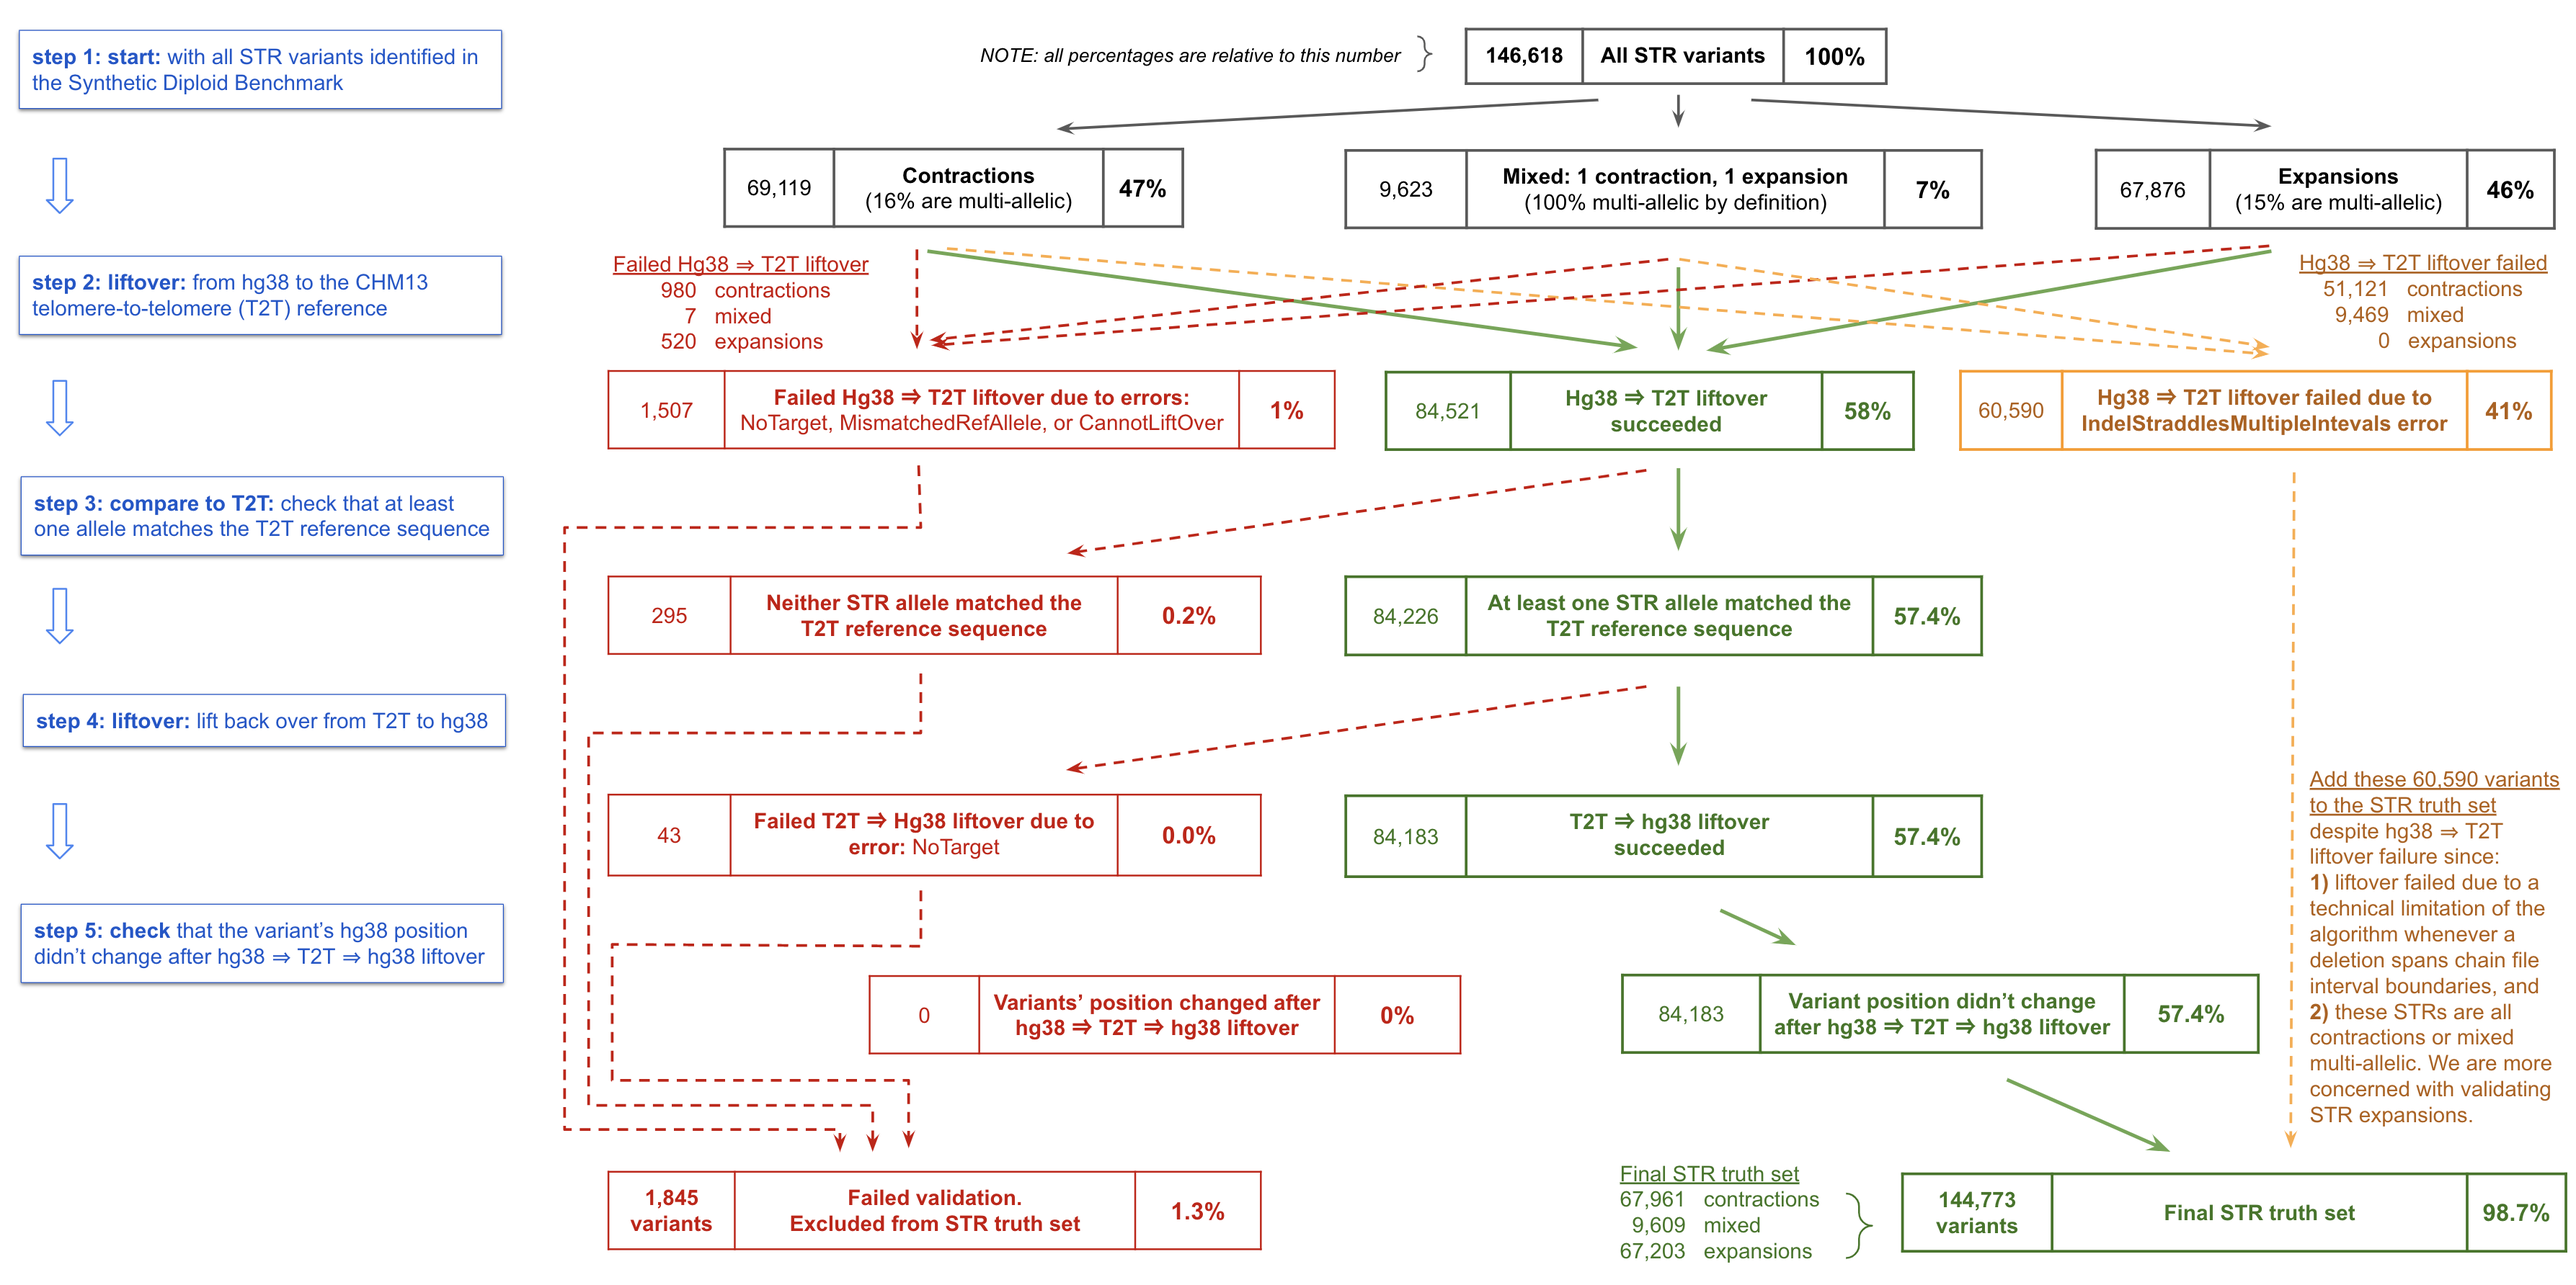
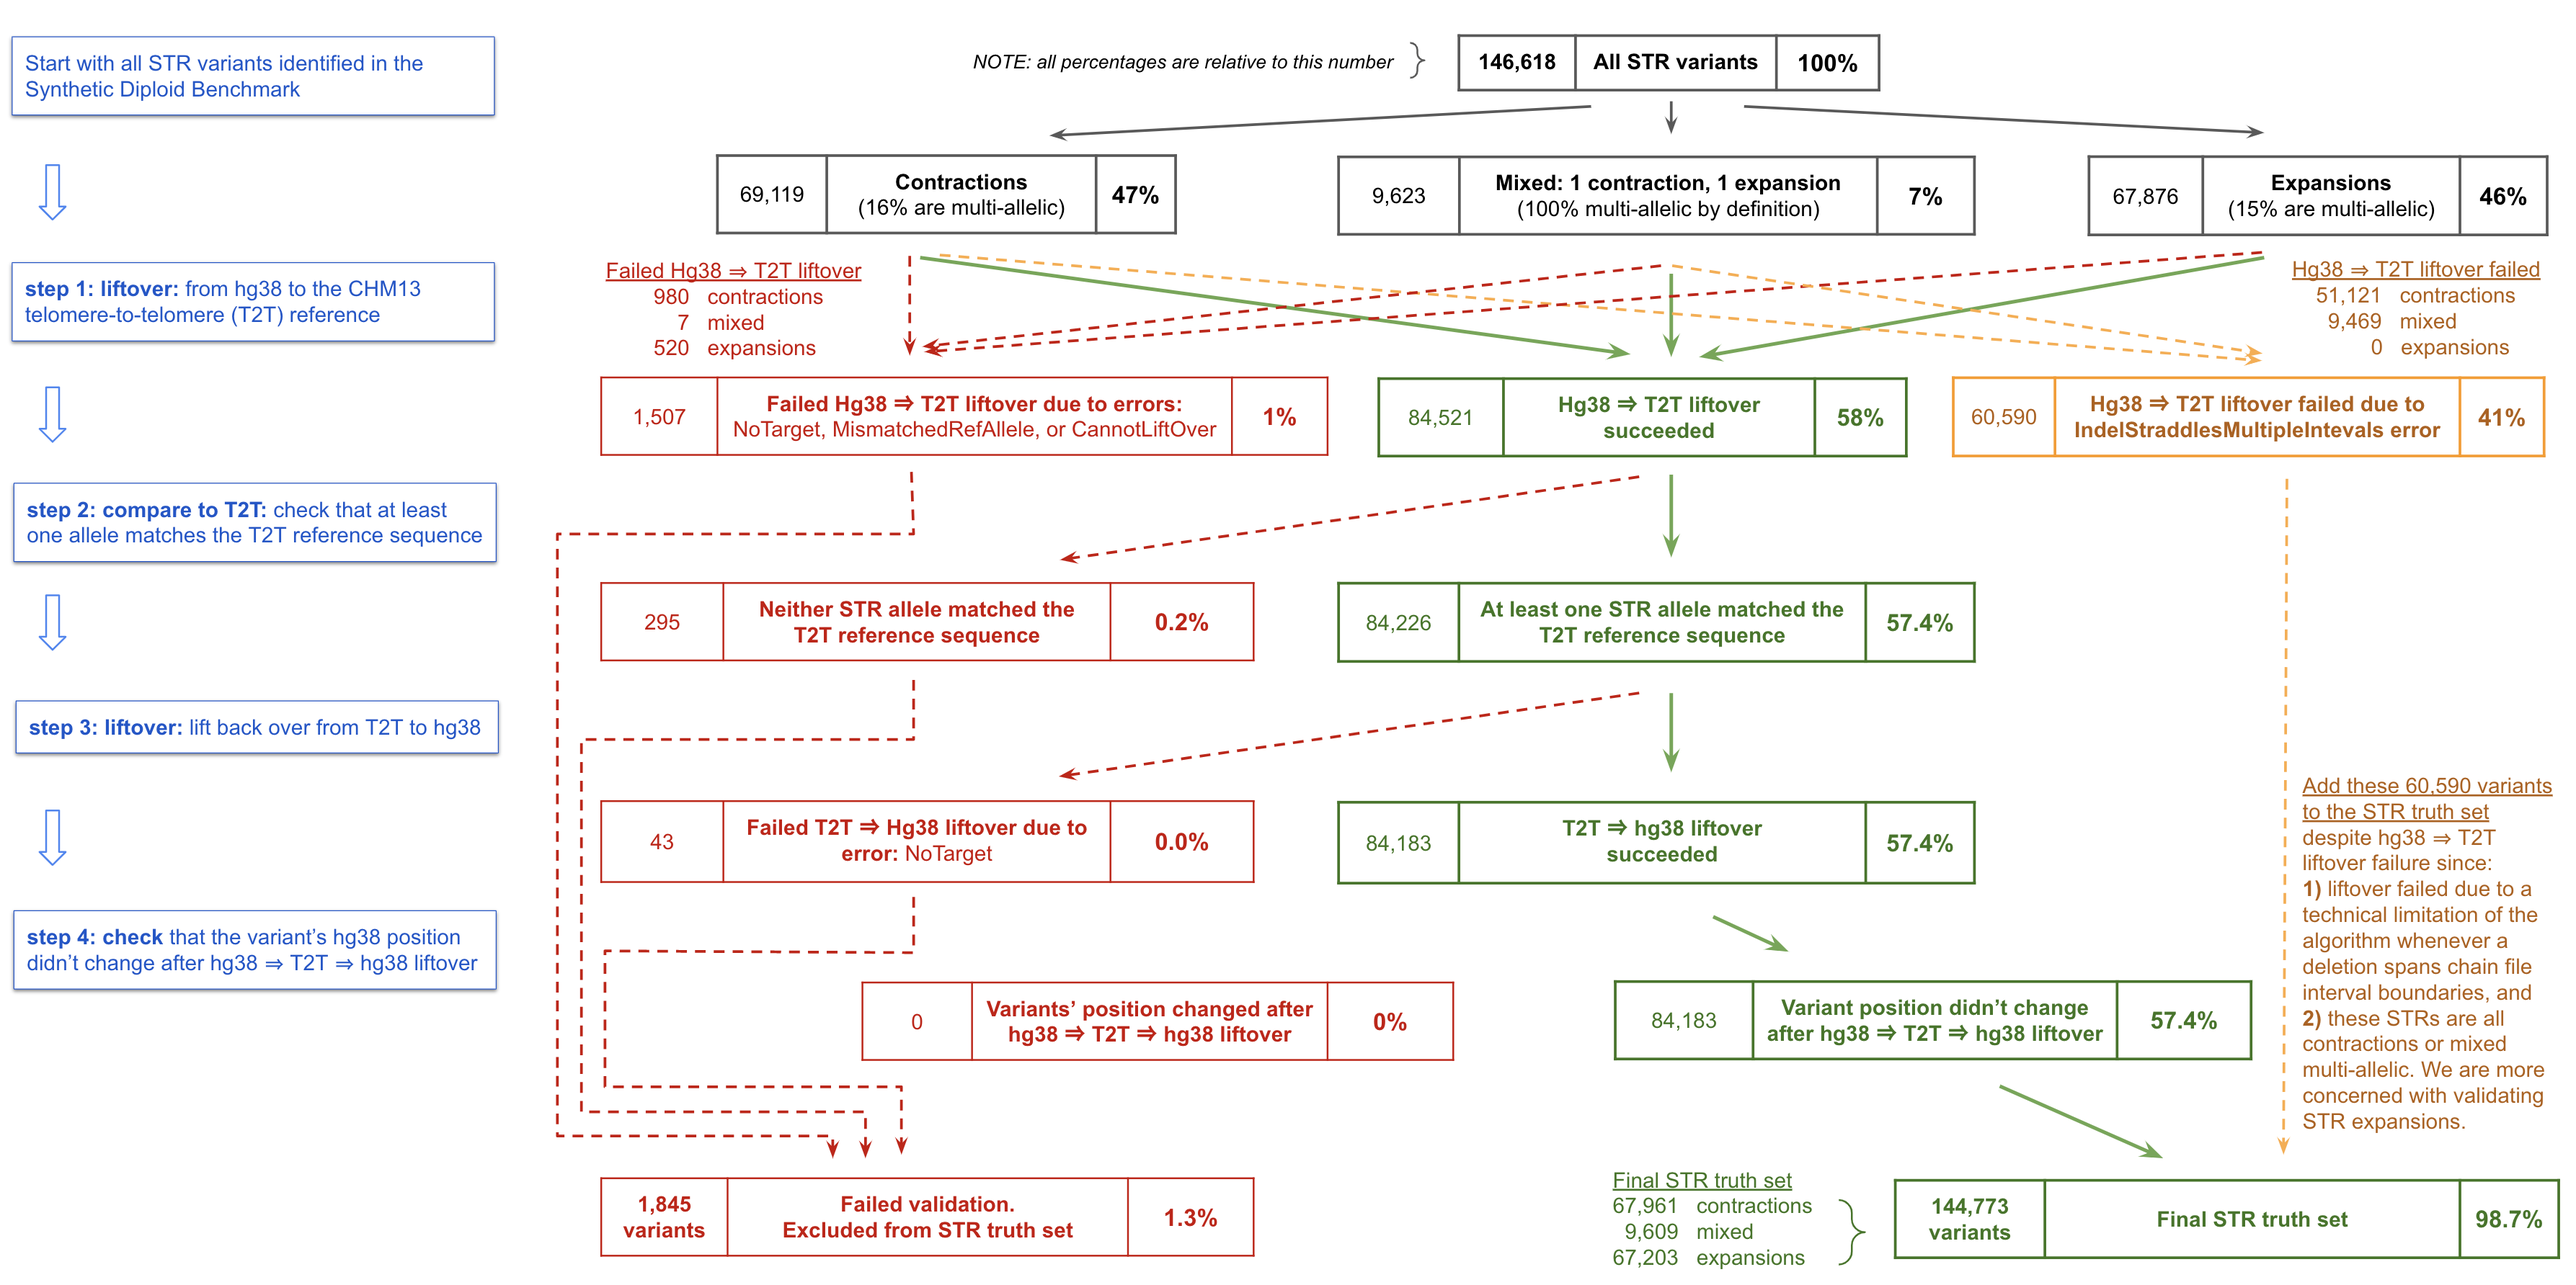
updating stats and figures

diff --git a/figures_and_tables/numbers1_for_intro.py b/figures_and_tables/numbers1_for_intro.py
@@ -89,16 +89,16 @@ total_alleles = int(re.search(
 total_high_confidence_alleles = int(re.search(
     f"step1:output:[ ]*([0-9,]+)[ ]* TOTAL alleles", step1_log_contents).group(1).replace(",", ""))
 
+high_confidence_INS_alleles = int(re.search(
+    f"step1:output:[ ]*([0-9,]+) out of[ ]* {total_high_confidence_alleles:,d}.*INS alleles", step1_log_contents).group(1).replace(",", ""))
+high_confidence_DEL_alleles = int(re.search(
+    f"step1:output:[ ]*([0-9,]+) out of[ ]* {total_high_confidence_alleles:,d}.*DEL alleles", step1_log_contents).group(1).replace(",", ""))
+
+
 high_confidence_SNV_variants = int(re.search(
     f"step1:output:[ ]*([0-9,]+) out of[ ]* {total_high_confidence_variants:,d}.*SNV variants", step1_log_contents).group(1).replace(",", ""))
 
 high_confidence_INS_DEL_variants = total_high_confidence_variants - high_confidence_SNV_variants
-high_confidence_INS_DEL_alleles = (
-        int(re.search(
-            f"step1:output:[ ]*([0-9,]+) out of[ ]* {total_high_confidence_alleles:,d}.*INS alleles", step1_log_contents).group(1).replace(",", ""))
-        + int(re.search(
-    f"step1:output:[ ]*([0-9,]+) out of[ ]* {total_high_confidence_alleles:,d}.*DEL alleles", step1_log_contents).group(1).replace(",", "")))
-
 
 total_STR_variants_before_validation_step = int(re.search(
     f"step2:pure_STR:output:[ ]*([0-9,]+)[ ]* TOTAL variants", step1_log_contents).group(1).replace(",", ""))
@@ -113,7 +113,10 @@ print(f"{format_n(total_high_confidence_variants)} high-confidence SynDip varian
 print(f"{format_n(total_high_confidence_alleles)} high-confidence SynDip alleles")
 
 print(f"{format_n(high_confidence_INS_DEL_variants)} high-confidence INS or DEL variants")
-print(f"{format_np(high_confidence_INS_DEL_alleles, total_high_confidence_alleles)} high-confidence INS or DEL alleles")
+
+print(f"{format_np(high_confidence_INS_alleles, total_high_confidence_alleles)} high-confidence INS alleles")
+print(f"{format_np(high_confidence_DEL_alleles, total_high_confidence_alleles)} high-confidence DEL alleles")
+print(f"{format_np(high_confidence_INS_alleles + high_confidence_DEL_alleles, total_high_confidence_alleles)} high-confidence INS + DEL alleles")
 
 print(f"{format_n(total_STR_variants_before_validation_step)} total pure STR variants")
 print(f"{format_np(total_STR_alleles_before_validation_step, total_high_confidence_alleles)} pure STR alleles")

diff --git a/figures_and_tables/numbers2_for_validation_diagram.py b/figures_and_tables/numbers2_for_validation_diagram.py
@@ -1,6 +1,5 @@
 """This script computes numbers that appear in the text of the paper, as well as all tables"""
 
-import collections
 import pandas as pd
 import re
 
@@ -243,3 +242,14 @@ print(f"{format_n(mixed_multiallelic_INS_DEL_variants_in_final_truthset)} "
 print(f"{format_n(INS_variants_in_final_truthset + multiallelic_INS_variants_in_final_truthset)} "
       f"INS variants failed hg38 to T2T liftover due to IndelStraddlesMultipleIntevals error")
 
+#%%
+print("-"*100)
+print("Validation diagram - overall percent that could be validated and that were validated:")
+print("-"*100)
+total_STR_variants_that_could_be_validated = total_STR_variants_before_validation_step - liftover_failed_IndelStraddlesMultipleIntevals
+print(f"{format_n(total_STR_variants_that_could_be_validated)} STRs that could be validated against T2T")
+print(f"{format_np(len(df_variants) - liftover_failed_IndelStraddlesMultipleIntevals, total_STR_variants_that_could_be_validated)} "
+      f"STRs passed this validation")
+
+
+#%%
